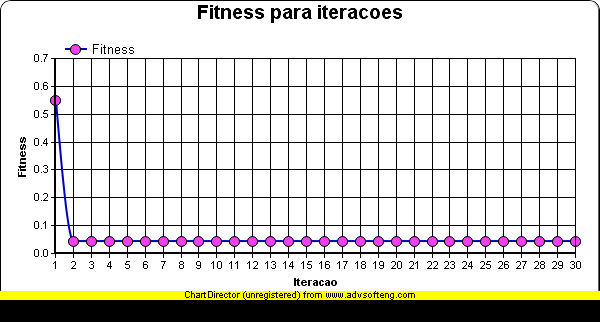
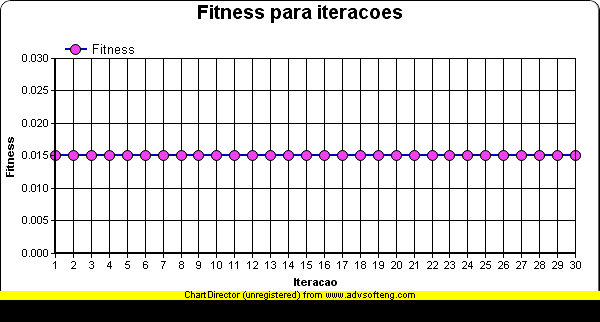
Add new fitness c janela

Changed region(s): [[0.0, 0.2484, 0.99, 0.7764], [0.03, 0.7764, 0.09, 0.8075], [0.03, 0.1553, 0.09, 0.1863]]

diff --git a/src/br/poli/gp/AlgoritmoGP.java b/src/br/poli/gp/AlgoritmoGP.java
@@ -29,7 +29,7 @@ public class AlgoritmoGP {
 	Individuo melhorIndividuo;
 	// OTIMIZAR MELHORINDIVIDUO c resilient backpropagation
 	//     <X     , Y     >
-	HashMap<Double, Double> serieTemporal;
+	Map<Double, Double> serieTemporal;
 	
 	
 	public AlgoritmoGP(EInicializacao tipoInicializacao, HashMap<Double, Double> serieTemporal) throws IOException{
@@ -119,15 +119,18 @@ public class AlgoritmoGP {
 
 	private void calcularFitnessPopulacao() {
 		HashMap<String, Double> hm = new HashMap<String, Double>();
-		hm.put("X0", 0d);
-		
+		for (int numeroJanela = 0; numeroJanela < Parametros.NUMERO_TOTAL_VARIAVEL; numeroJanela++) {
+			hm.put("X"+numeroJanela, 0d);
+		}
 		for(Individuo i : populacao){
 			double fitness = 0.0;
-			for(Map.Entry<Double, Double> entry : serieTemporal.entrySet()){
-				hm.replace("X0", entry.getKey());
-//				System.err.println(entry.getValue());
-//				System.err.println(i.calcularValor(hm));
-				fitness += Math.pow(entry.getValue() - i.calcularValor(hm), 2); //REGRA PARA CALCULAR O FITNESS DEVE SER DISCUTIDA
+			for(Double walk = 0.0; walk < (serieTemporal.size()-Parametros.NUMERO_TOTAL_VARIAVEL); walk++){
+				int aux = 0;
+				for (Double numeroJanela = 0.0; numeroJanela < Parametros.NUMERO_TOTAL_VARIAVEL; numeroJanela++) {
+					hm.replace("X"+numeroJanela.intValue(), serieTemporal.get(walk+aux));
+					aux++;
+				}
+				fitness += Math.pow(serieTemporal.get(walk+Parametros.NUMERO_TOTAL_VARIAVEL) - i.calcularValor(hm), 2); //REGRA PARA CALCULAR O FITNESS DEVE SER DISCUTIDA
 				// COMO VAI TRATAR NAN?
 			}
 			

diff --git a/src/br/poli/gp/Parametros.java b/src/br/poli/gp/Parametros.java
@@ -6,7 +6,7 @@ public class Parametros {
 	public static final int NUMERO_TOTAL_SIMULACAO = 10;
 	public static final int NUMERO_TOTAL_ITERACAO = 30;
 	public static final int NUMERO_TOTAL_FUNCAO = 1;
-	public static final int NUMERO_TOTAL_VARIAVEL = 1;
+	public static final int NUMERO_TOTAL_VARIAVEL = 4; //(TAMANHO DA JANELA)
 	public static final double CHANCE_CRIACAO_VARIAVEL = 0.5d; 
 	public static final double TAXA_CRUZAMENTO_MUTACAO = 0.2;
 	public static final int TAMANHO_MAXIMO_MUTACAO_PROFUNDIDADE = 3;
